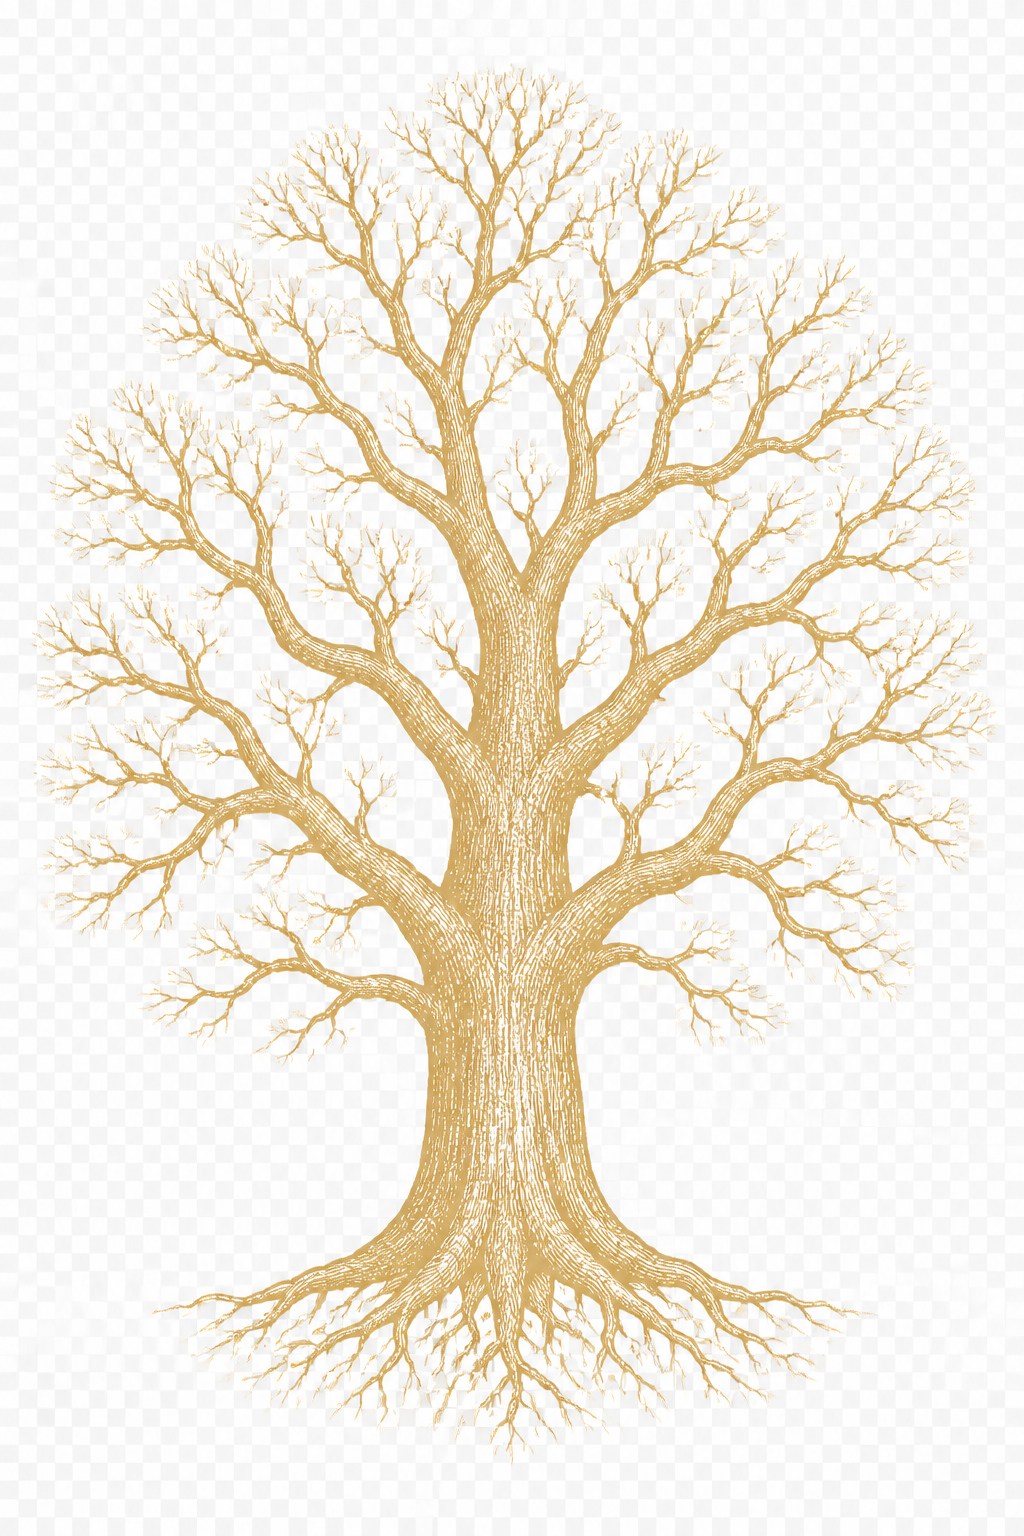
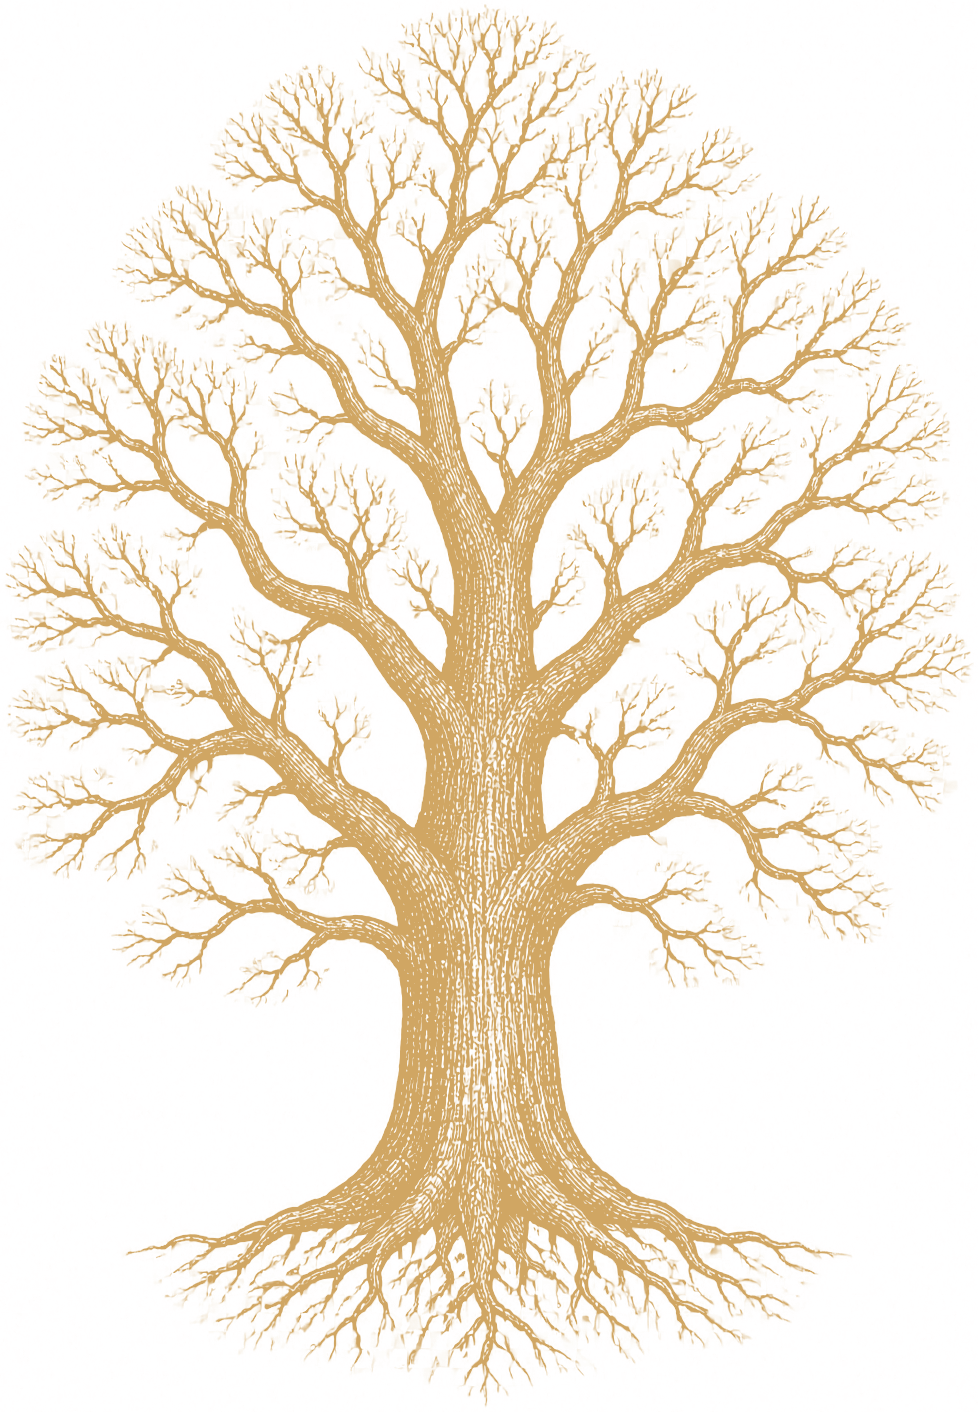
Fix: motif PNG bez pravog alpha kanala
Generator je izbacio RGB (bez alpha) pa je 'transparency checker' iz
preview-a bio doslovno zapečen kao svijetlosivi pozadinski uzorak. Na
tamnoj temi je to izgledalo kao pravokutna maglica koja curi preko
ruba sekcije, a ne kao suptilni watermark.

Post-processom rekonstruiram alpha iz saturacije (brass ima jaku žutu,
šahovnica je siva s 0 sat.), sve piksele repaintam u čist brass tone i
auto-croppam na bounding box stabla (978x1412). Rezultat je stvarno
transparentan PNG bez halo efekta.

Blago dižem opacity (0.16/0.09) jer je vidljivost sada isključivo od
piksela stabla, ne od parazitne pozadine, i sužavam bleed s -6/-8rem
na -4/-6rem tako da watermark jasnije 'proviruje' iznutra.

Changed region(s): [[0.0, 0.0, 0.9816, 0.9972]]

diff --git a/src/app/globals.css b/src/app/globals.css
@@ -343,20 +343,20 @@ body::after {
 
 .motif-hero {
   top: 50%;
-  right: -6rem;
+  right: -4rem;
   transform: translateY(-50%);
-  width: min(32rem, 55vw);
-  aspect-ratio: 3 / 4;
-  opacity: 0.11;
+  width: min(30rem, 50vw);
+  aspect-ratio: 978 / 1412;
+  opacity: 0.16;
 }
 
 .motif-contact {
   top: 50%;
-  left: -8rem;
+  left: -6rem;
   transform: translateY(-50%);
-  width: min(28rem, 45vw);
-  aspect-ratio: 3 / 4;
-  opacity: 0.06;
+  width: min(26rem, 40vw);
+  aspect-ratio: 978 / 1412;
+  opacity: 0.09;
 }
 
 @media (max-width: 768px) {
